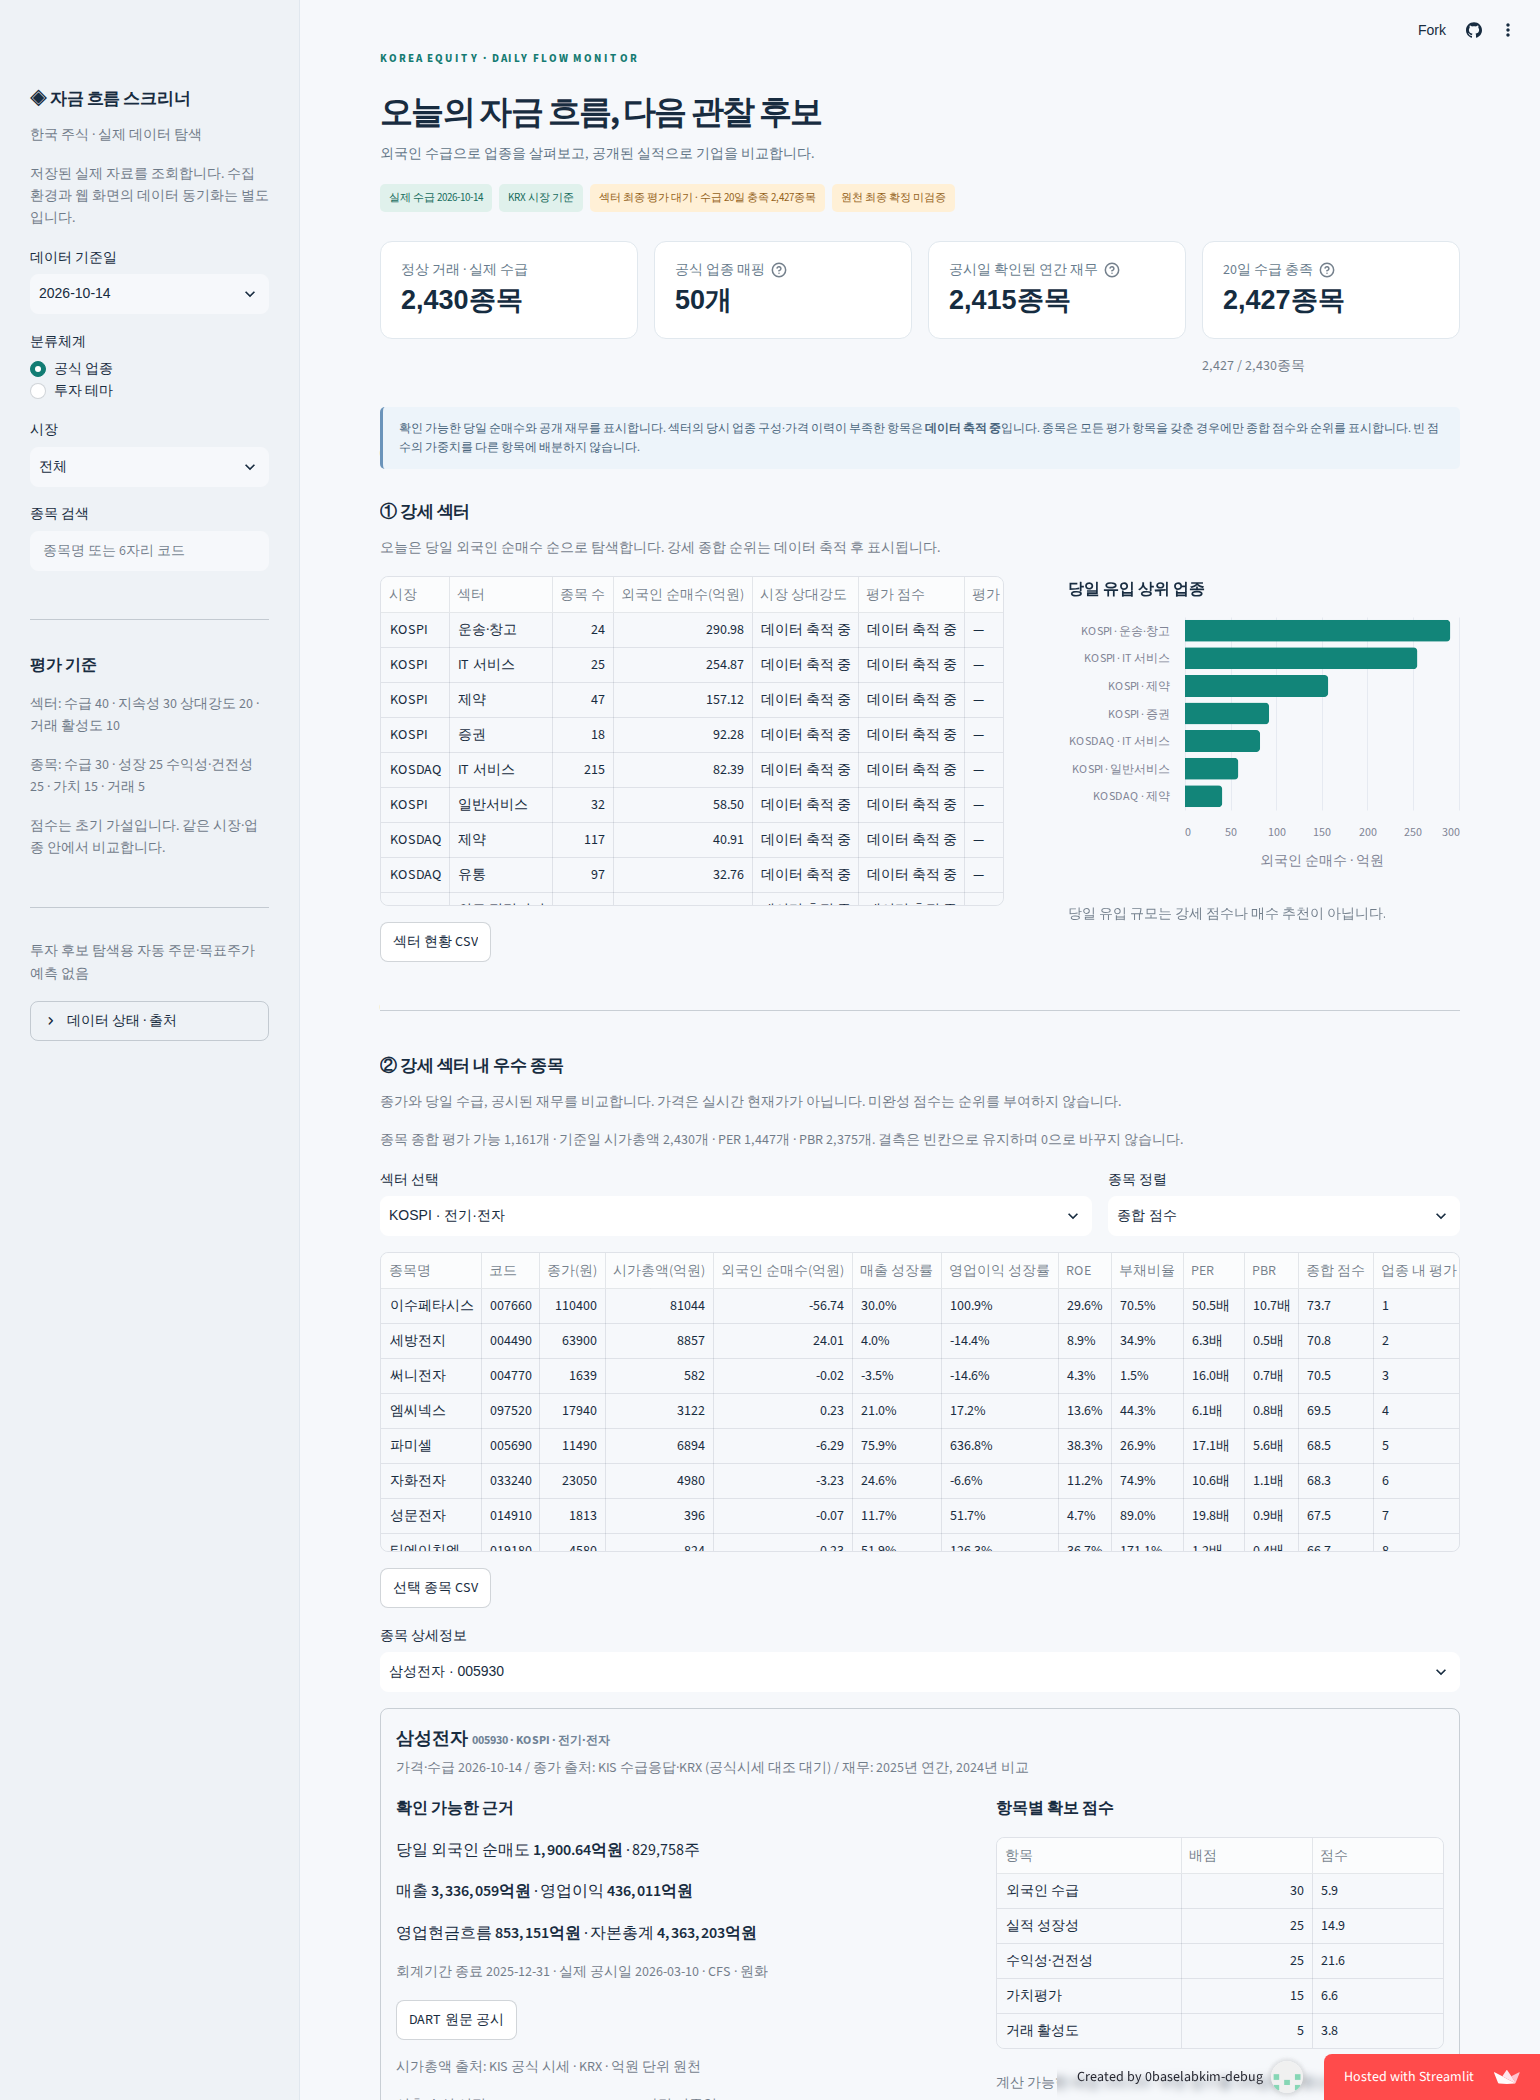
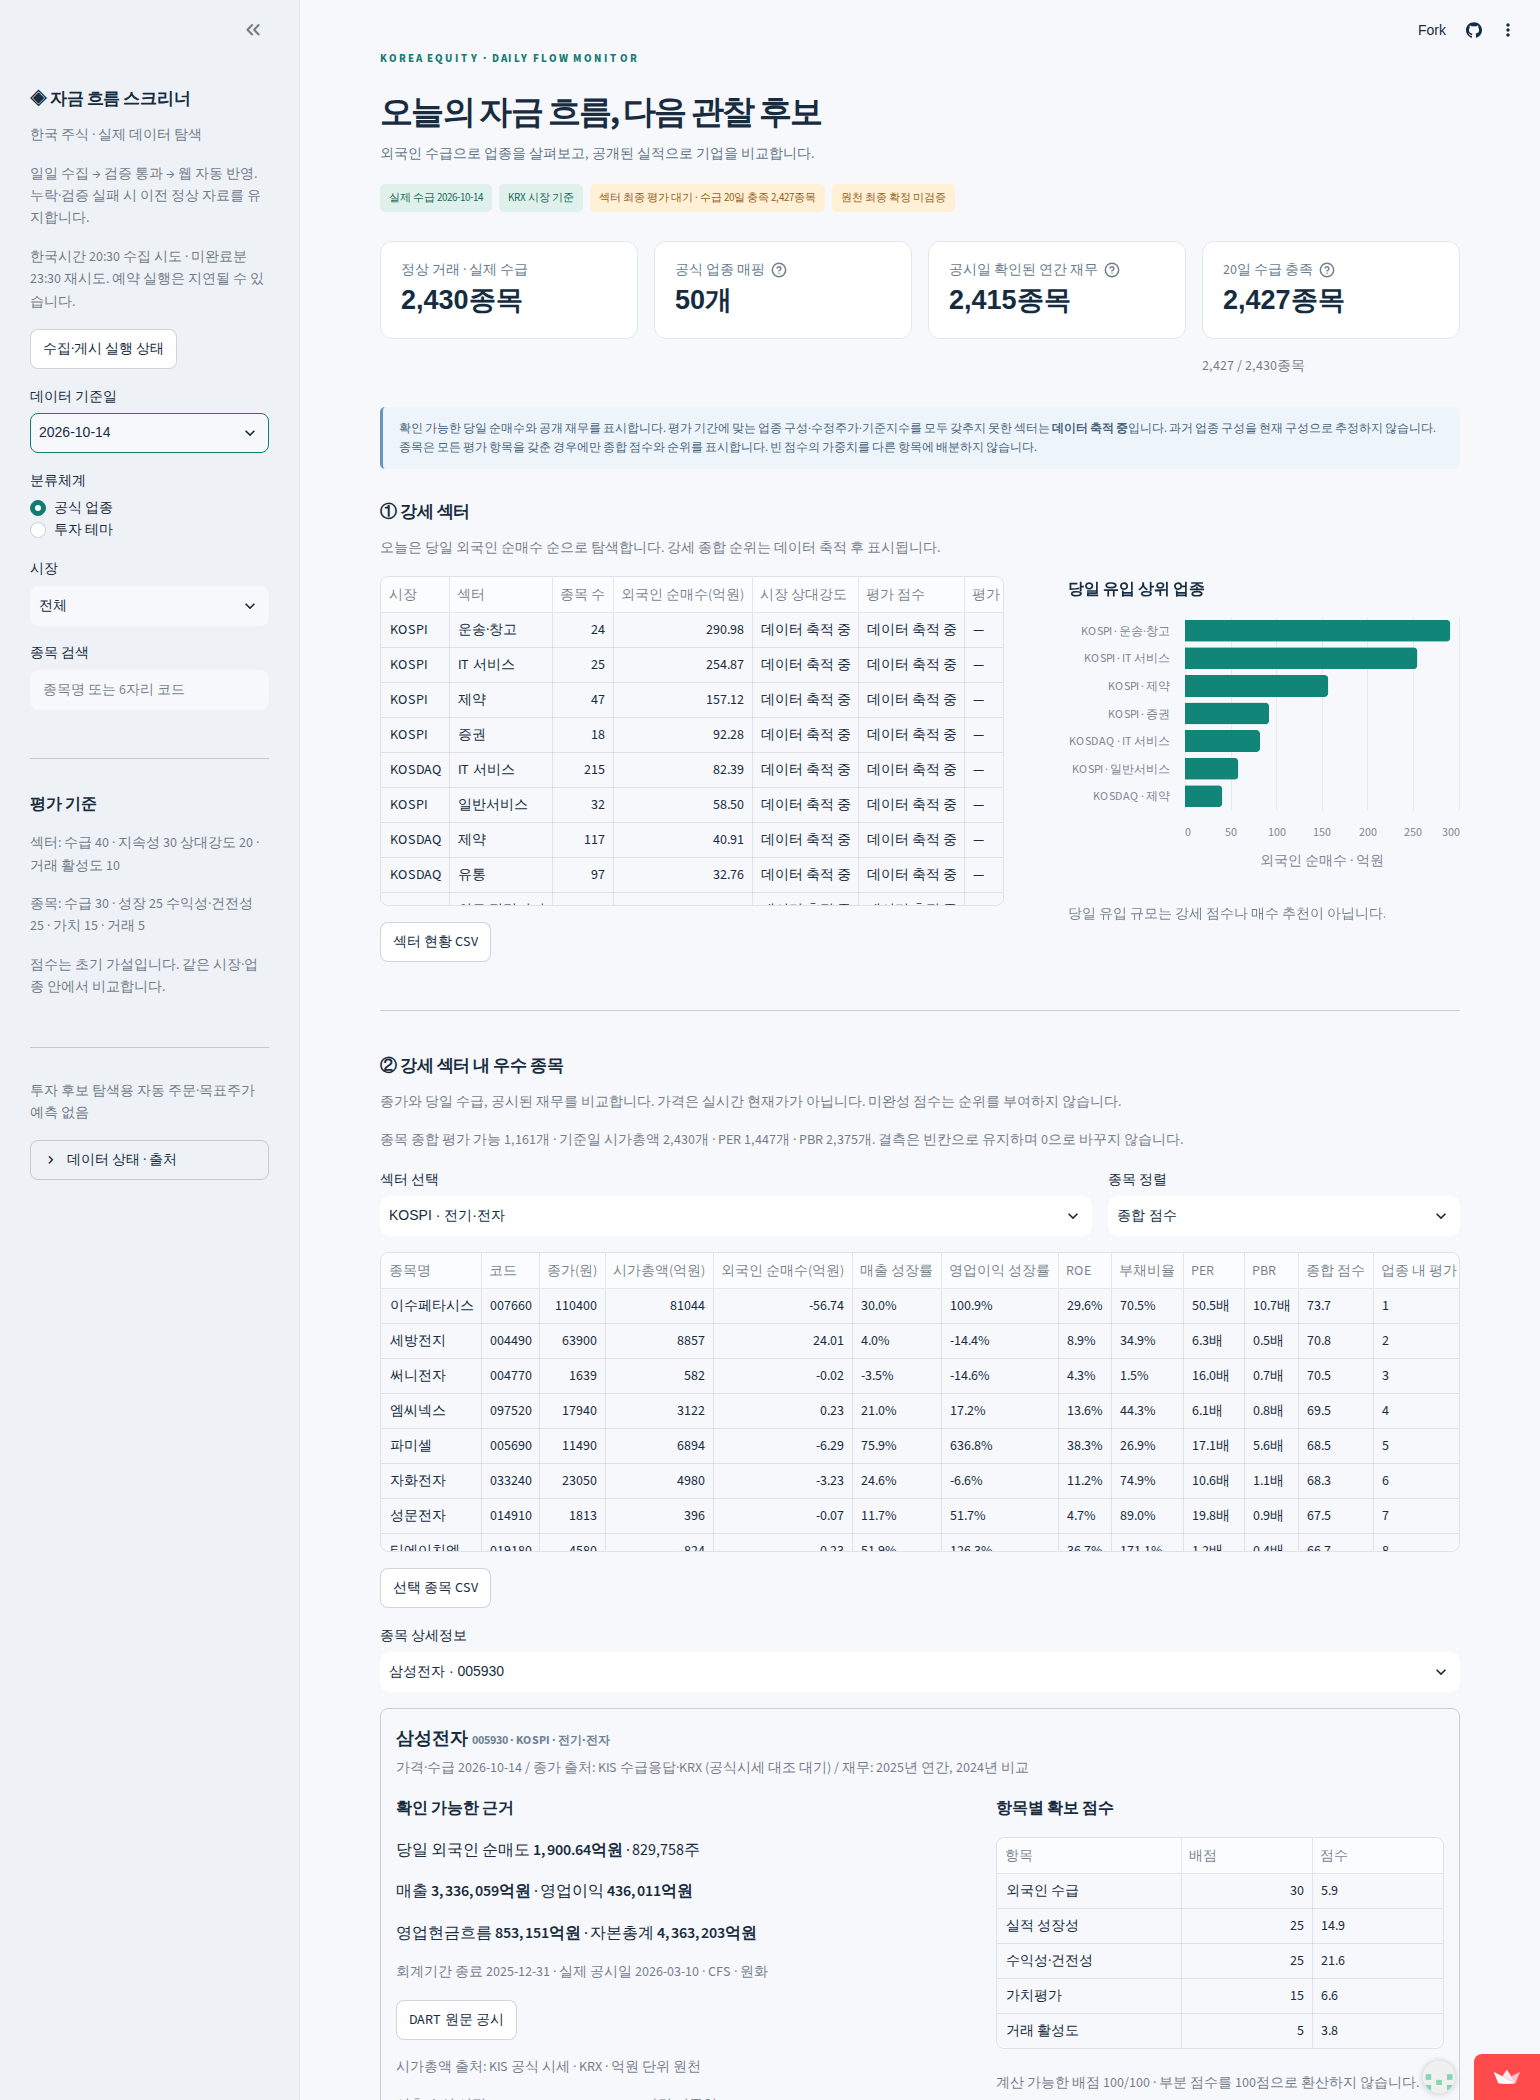
Document real sector-data limits and verified automatic dashboard publication

diff --git a/reports/sector/REPORT.md b/reports/sector/REPORT.md
@@ -1,0 +1,42 @@
+# 섹터 자료·테마 확대·일일 자동 반영 결과
+
+분석 기준일 **2026-10-14**. [실제 대시보드](https://0baselabkim-debug-qweasd-app-nuf4kg.streamlit.app/)
+
+| 작업 | 결과 | 확인 내용 |
+|---|---|---|
+| 수정주가·기준지수 | 수신 성공·수정주가 평가 보류 | 수정주가 2,430종목·63,128행, KOSPI·KOSDAQ 지수 52행 |
+| 과거 업종 구성 | 미확보 | KRX 공개 페이지 및 업종 화면 접근 403. 허용된 기본정보 API의 소속부는 업종이 아님 |
+| 섹터 종합 강세 순위 | 보류 | 당시 업종 구성 없이 현재 구성을 과거에 적용하지 않음 |
+| 테마 확대 | 부분 검증 범위 확대 완료 | 11 → 39개 기업, 42개 소속 관계. 전부 사업보고서 원문 확인 |
+| 일일 수집 → 웹 자동 게시 | 실제 자료 재처리·게시 성공 | 정상 2,430개와 근거 있는 제외 113개를 처리하고 기존 DB 보존 검증 |
+| 종목 평가 보존 | 성공 | 종합 점수·업종 내 순위 1,161개. 전체 종목 주요 지표·점수·순위 해시가 변경 전과 일치 |
+
+## 실제 데이터와 산식 검증
+
+- 수정주가는 KIS 공식 `J=KRX`, `FID_ORG_ADJ_PRC=0`을 사용했습니다. 원시 종가를 수정주가로 간주하지 않았습니다. KOSPI `0001`, KOSDAQ `1001`의 공식 지수를 수신했습니다. 실제 수집 시간 42.59분, 호출 제한 응답 1건. [수집 실행](https://github.com/0baselabkim-debug/qweasd/actions/runs/38644431918)
+- **종가 재조회 차이 2,042종목**: 새 수정주가 관측은 별도로 보관하되 해당 날짜를 포함하는 섹터 상대강도 계산에서 제외합니다. 기존 종가·시총·종목 점수는 덮어쓰지 않았습니다. 3개 대표 종목을 추가 호출한 결과 현재 수정주가·일반 종가·수급 응답의 종가는 서로 같고, 기존 저장 종가와 달랐습니다. 세 종목의 순매수 금액·수량은 기존과 같았습니다. 공급자 값의 변경 원인이나 전체 종목의 수급 불변 여부는 확정하지 않았습니다. [재조회 근거](adjustment-consistency-probe.json)
+- 기존 수급 48,567행, 10월 14일 정상 종목 2,430개, 재무 2,415개를 유지했습니다. 기존 원시 시세·재무·업종·제외 자료를 전수 비교했습니다. 수정주가·지수는 별도 출처를 기록해 추가했습니다. 과거 일별 시총은 기존 KRX 공식 60,698행과 당일 KIS 2,430행을 그대로 사용하며 현재 시총을 과거에 소급 적용하지 않습니다.
+- 종목 평가 가중치 30/25/25/15/5와 섹터 40/30/20/10을 유지했습니다. 기존 3개 종목·2개 업종의 독립 계산 검사도 유지합니다. 섹터 종합 점수는 0개이며 부족한 항목의 배점을 재분배하지 않습니다.
+- 과거 구성의 확인된 시작일은 2026-10-14입니다. KRX 과거 기본정보의 `SECT_TP_NM`은 우량기업부·벤처기업부 등으로, 산업 분류를 대체할 수 없습니다. KIS 현재 마스터에는 날짜별 구성 조회 기능이 없으므로 최신 마스터를 소급 적용하지 않았습니다. 10월 15일 실제 마스터도 별도로 조회했지만 14일 구성으로 사용하지 않았습니다.
+
+## 테마
+
+AIDC 4개 · 전력 인프라 9개 · 반도체 7개 · 로봇 8개 · 방산 6개 · 원전 8개. 확인한 기업은 **39개**, 중복 소속 관계는 **3건**입니다. 두산에너빌리티·비에이치아이·SNT에너지가 전력 인프라와 원전에 중복 소속됩니다. 전체 테마 합집합 순매수 -917,382,000,000원은 종목별 한 번만 합산했습니다.
+
+원전 범위는 실제 설계·주요 설비·계측제어·주설비 건설·정비로 명시했습니다. 단순 기대 수혜나 이름 유사성으로 분류하지 않았습니다. 사업보고서의 공시일·원문 링크·발췌·파일 해시를 저장했습니다. SNT에너지의 복수기 사업처럼 해당 연도 매출이 별도 확인되지 않는 경우도 근거 설명에 표시했습니다. 미검토 2,391개 기업은 임의 분류하지 않습니다. 화면의 **부분 검증 테마**는 전체 시장 업종 순위와 구분됩니다.
+
+## 자동 반영과 보존
+
+한국시간 평일 **20:30** 수집 시도, **23:30** 미완료분 재시도입니다. 공식 휴장일 API를 실제 조회해 검증했고, 거래일당 정상 게시 1회를 기록합니다. 보존 자료 재처리는 기존 날짜·종목·수급·원시 시세를 변경할 수 없으며, 재조회 차이가 있는 수정주가는 평가 보류 표시를 유지합니다. 신규 날짜의 정상 수집에서는 종가 불일치가 있으면 게시를 막습니다. 성공 종목과 정상 제외 자료는 체크포인트를 재사용합니다. API 오류·날짜/단위/중복 오류·미확보가 있으면 이전 정상 스냅샷을 유지합니다.
+
+[자동 게시 검증 실행](https://github.com/0baselabkim-debug/qweasd/actions/runs/38650326964)은 **보존된 실제 자료를 재처리한 검증**입니다. 전체 수급을 다시 수집하지 않았습니다. 새 거래일의 전체 수집 및 3거래일 연속 운영은 아직 수행되지 않았습니다. 예약 지연과 실제 시작·완료·게시 시각을 기록하도록 연결했습니다. 현재 공식 마스터 파싱과 KRX KIND 현재 기업목록 2,689행 조회도 Actions에서 확인했습니다. 이 현재 목록을 과거 구성으로 소급하지 않습니다. 자세한 동작은 [일일 운영 문서](../../docs/daily-publication.md)에 있습니다.
+
+## 테스트와 남은 문제
+
+- [배포 코드 자동 테스트](https://github.com/0baselabkim-debug/qweasd/actions/runs/38650548606) **57개 통과**. 누락·단위 오류·잘못된 날짜·기존 값 변경·업종 소실·상장폐지 후 재상장 구분·거래정지 가격 보존을 검사했습니다.
+- [실제 공개 앱 검증](https://github.com/0baselabkim-debug/qweasd/actions/runs/38650545213)에서 HTTP 200, 자동 게시 상태 표시, 부분 테마 39개 기업, 업종/테마 선택, 정렬, 상세 조회, CSV 다운로드를 확인했습니다.
+- 저장소 파일 123개에서 기존 비밀키 값 일치 **0건**, `.env` 미추적을 확인했습니다. 테스트용 가상 값은 배포 DB에 넣지 않았습니다.
+- **섹터 종합 순위는 미완료**입니다. 과거 업종 구성에 접근할 수 있는 공식 원천이 추가로 필요합니다. 앞으로는 날짜별 실제 구성을 저장하고, 기간별 모든 필수 자료가 충족된 섹터부터 평가합니다. 거래 활성도에는 25거래일이 필요하며, 단순히 날짜가 지났다고 완료 처리하지 않습니다.
+- 공급원 수급의 최종 확정 시각은 계속 **미검증**입니다. 20:30을 확정 시각이라고 표시하지 않습니다. 기존 재무 결측·평가 보류 기준도 유지합니다.
+
+사용자가 코드를 수정할 필요는 없습니다. 기존 대시보드를 새로고침하면 됩니다.

diff --git a/README.md b/README.md
@@ -11,7 +11,7 @@
 - 영업현금흐름: **2,415종목**, 기준일 시가총액: **2,430종목**
 - 직접 계산 가능한 PER **1,447개**, PBR **2,375개**, ROE **2,397개**. 적자 PER를 낮은 배수로 표시하지 않습니다.
 - 기존 공식 업종은 유지하고 미분류 **232개를 보완**했습니다. KIS 업종이 없는 경우 KRX KIND의 분류를 `표준산업 · …`로 구분합니다.
-- AIDC·전력 인프라·반도체·로봇·방산·원전은 별도 테마입니다. 사업 근거를 확인한 **11개 기업, 12개 소속 관계**부터 제공합니다. 미검토 기업은 ‘확인 필요’입니다.
+- AIDC·전력 인프라·반도체·로봇·방산·원전은 별도 테마입니다. 사업 근거를 확인한 **39개 기업, 42개 소속 관계**를 제공합니다. 전체 시장 테마 분류는 미완성이므로 부분 검증 테마로 구분합니다. 미검토 기업은 ‘확인 필요’입니다.
 - 과거 수급 확보 범위와 20일 충족 종목 수는 화면과 [검증 결과](reports/enrichment/coverage.json), [날짜별 수급 품질 보고서](reports/enrichment/history-quality.json)에 표시합니다. 전체 확대는 10종목 검증 후 사용자 승인을 받고 실행했습니다.
 
 ## 평가와 데이터 원칙
@@ -37,7 +37,7 @@
 
 `main`의 `snapshot/dashboard.duckdb`는 검증된 공개 조회용 사본입니다. 해시는 [manifest](snapshot/manifest.json), 3종목·2업종 독립 계산은 [verification](snapshot/verification.json)에 있습니다. 웹 화면은 읽기 전용이며 API 인증키가 필요하지 않습니다. `.env`와 토큰은 포함하지 않습니다. 실제 자료와 테스트용 자료는 분리합니다.
 
-이 스냅샷의 분석일은 **2026-10-14**입니다. 기존 수집 결과를 매일 웹 스냅샷으로 자동 게시하는 기능은 아직 연결하지 않았습니다. 웹 화면에서 날짜를 현재 날짜로 꾸미지 않습니다.
+이 스냅샷의 분석일은 **2026-10-14**입니다. GitHub Actions가 한국시간 20:30에 수집을 시도하고, 23:30에 미완료분을 재시도합니다. 검증 통과 후에만 웹 스냅샷을 게시하며 실패 시 기존 자료를 유지합니다. 실제 보존 자료로 게시 경로를 검증했으며 새 거래일 연속 운영은 아직 확인 전입니다. 웹 화면에서 날짜를 현재 날짜로 꾸미지 않습니다.
 
 ## 개발자 재현
 
@@ -57,3 +57,5 @@ python -m pytest -q tests/test_dashboard.py tests/test_dashboard_deployment.py t
 전체 과거 수급과 시총의 원문 응답은 `staging/`에, 계정별 매핑 근거는 `reports/enrichment/account-provenance.json.gz`에 보관합니다. 원천 공시 문서는 각 종목의 DART 원문 링크로 확인할 수 있습니다.
 
 [자동 테스트](https://github.com/0baselabkim-debug/qweasd/actions/workflows/dashboard-check.yml) · [기존 앱 브라우저 검증](https://github.com/0baselabkim-debug/qweasd/actions/workflows/dashboard-live-check.yml)
+
+최신 결과는 [섹터·테마·자동 게시 보고서](reports/sector/REPORT.md)를 확인하세요. KIS 수정주가 63,128행과 기준지수 52행을 수신했으나, 과거 업종 구성 미확보 및 2,042종목의 종가 재조회 차이로 섹터 종합 순위는 보류합니다. 기존 원시 가격·시총·종목 평가 1,161개를 유지했습니다. [일일 운영·보존 규칙](docs/daily-publication.md)

diff --git a/docs/deployment-status.md b/docs/deployment-status.md
@@ -8,8 +8,10 @@
 
 첫 배포에서 실행 중인 구버전 계산 모듈/캐시 때문에 `flow_observations`를 찾지 못하는 오류를 발견했습니다. 소스·데이터 버전에 따라 모듈과 캐시를 갱신하도록 수정하고 실제 공개 앱에서 재검증했습니다. 이후 배포에서도 구버전 모듈을 강제로 남겨 재현하는 자동 테스트를 수행합니다.
 
-최신 확보 수·시계열 범위·검증 결과는 [데이터 보완 보고서](../reports/enrichment/REPORT.md), [배포 데이터 해시](../snapshot/manifest.json), [자동 테스트](https://github.com/0baselabkim-debug/qweasd/actions/workflows/dashboard-check.yml)에서 확인할 수 있습니다.
+최신 확보 수·시계열 범위·검증 결과는 [섹터·테마·자동 게시 보고서](../reports/sector/REPORT.md), [배포 데이터 해시](../snapshot/manifest.json), [자동 테스트](https://github.com/0baselabkim-debug/qweasd/actions/workflows/dashboard-check.yml)에서 확인할 수 있습니다.
 
-화면의 분석일은 2026-10-14입니다. 일일 수집 결과를 웹 스냅샷으로 자동 게시하는 기능은 아직 연결하지 않았습니다. 자료를 현재 날짜로 가장하지 않습니다.
+화면의 분석일은 2026-10-14입니다. 일일 수집 결과를 검증 후 웹 스냅샷으로 자동 게시하도록 연결했습니다. 실제 보존 자료의 재처리·게시로 경로를 확인했으며, 새 거래일 전체 수집과 3거래일 연속 운영은 미검증입니다. 자료를 현재 날짜로 가장하지 않습니다.
 
 최종 배포에서는 재무 2,415종목, 20거래일 수급 2,427종목, 종합 평가 1,161종목을 확인했습니다. [업종 화면](dashboard-preview.png) · [테마 화면](dashboard-theme.png) · [종목 상세 화면](dashboard-detail.png).
+
+최신 [실제 게시 실행](https://github.com/0baselabkim-debug/qweasd/actions/runs/38650326964)과 [외부 브라우저 검증](https://github.com/0baselabkim-debug/qweasd/actions/runs/38650545213)이 성공했습니다. HTTP 200, 재무 2,415개·20일 수급 2,427개·종목 종합 평가 1,161개, 자동 게시 상태·39개 테마 기업과 선택/정렬/상세/다운로드를 확인했습니다.

diff --git a/reports/enrichment/REPORT.md b/reports/enrichment/REPORT.md
@@ -1,5 +1,7 @@
 # 데이터 보완·평가 검증 결과
 
+> 이전 단계의 검증 기록입니다. 테마 확대·수정주가/지수·자동 게시의 최신 결과는 [후속 보고서](../sector/REPORT.md)를 확인하세요.
+
 분석 기준일: **2026-10-14**. 기존 평가 대상 **2,430종목**을 분모로 사용했습니다. 원래의 10월 14일 수급 2,430행은 그대로 보존했습니다. 거래정지 108개·상장폐지 5개는 기존 제외 기준을 유지했습니다.
 
 [기존 대시보드](https://0baselabkim-debug-qweasd-app-nuf4kg.streamlit.app/)
